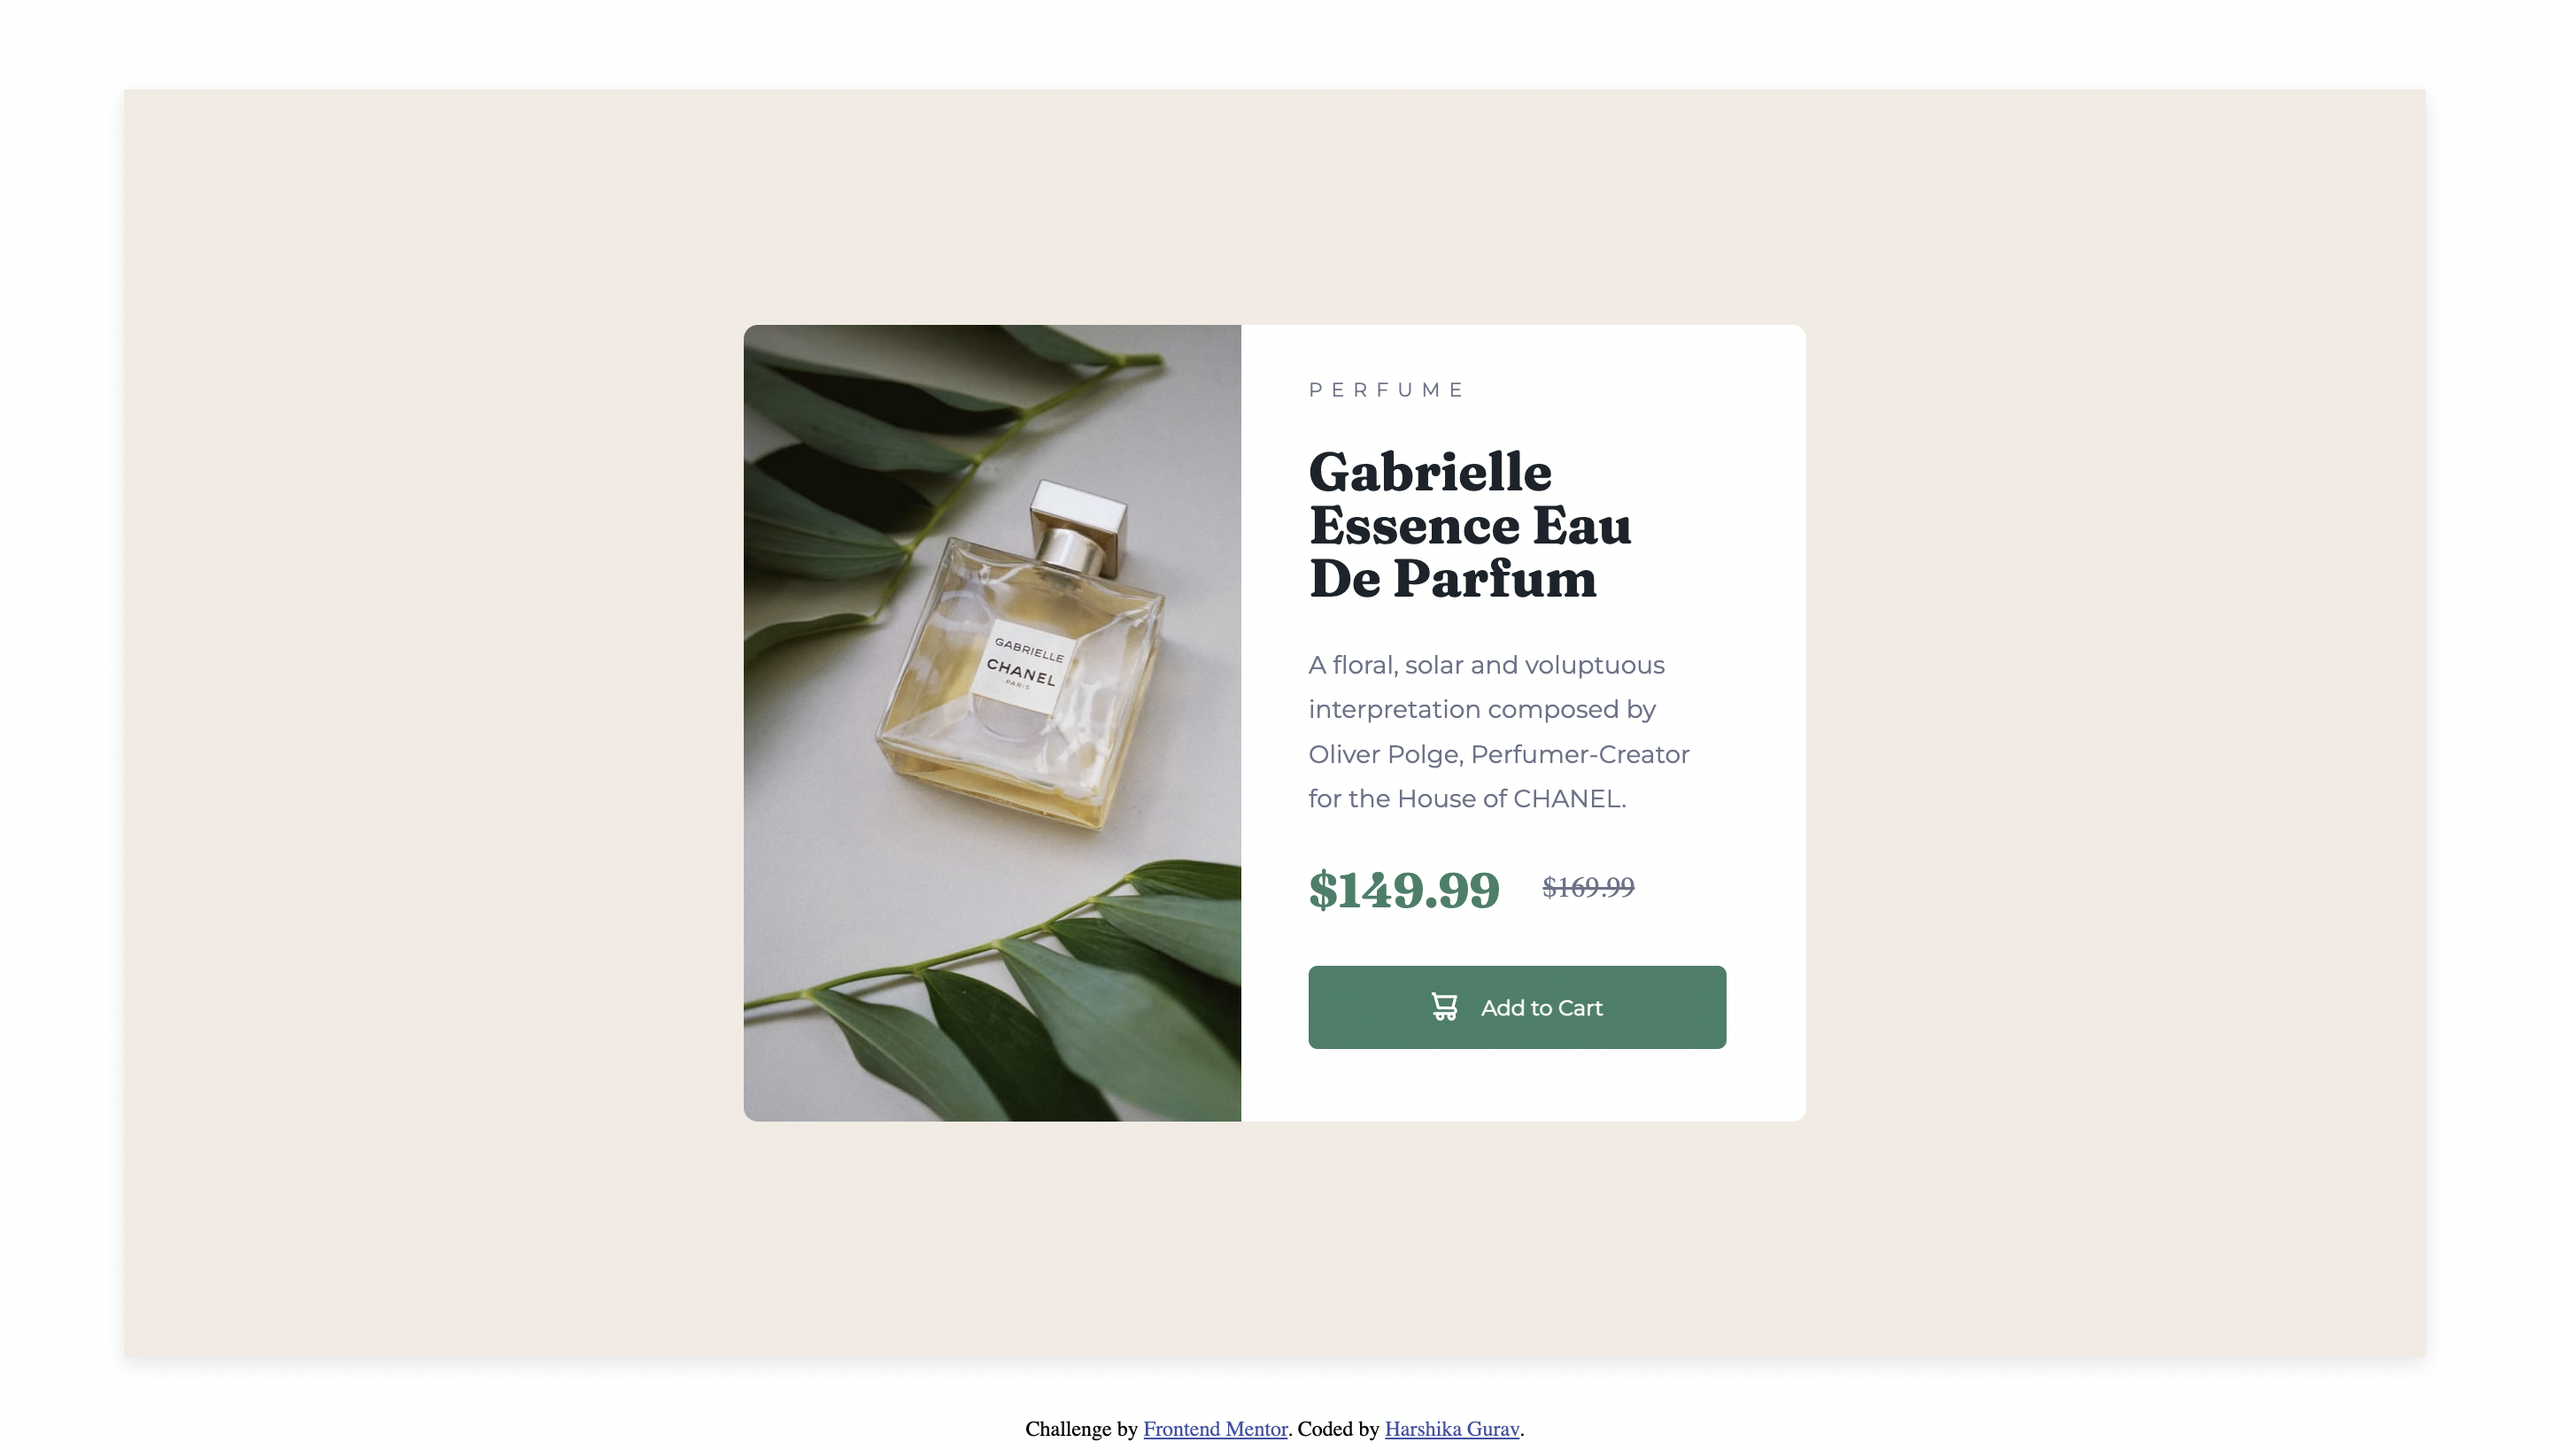
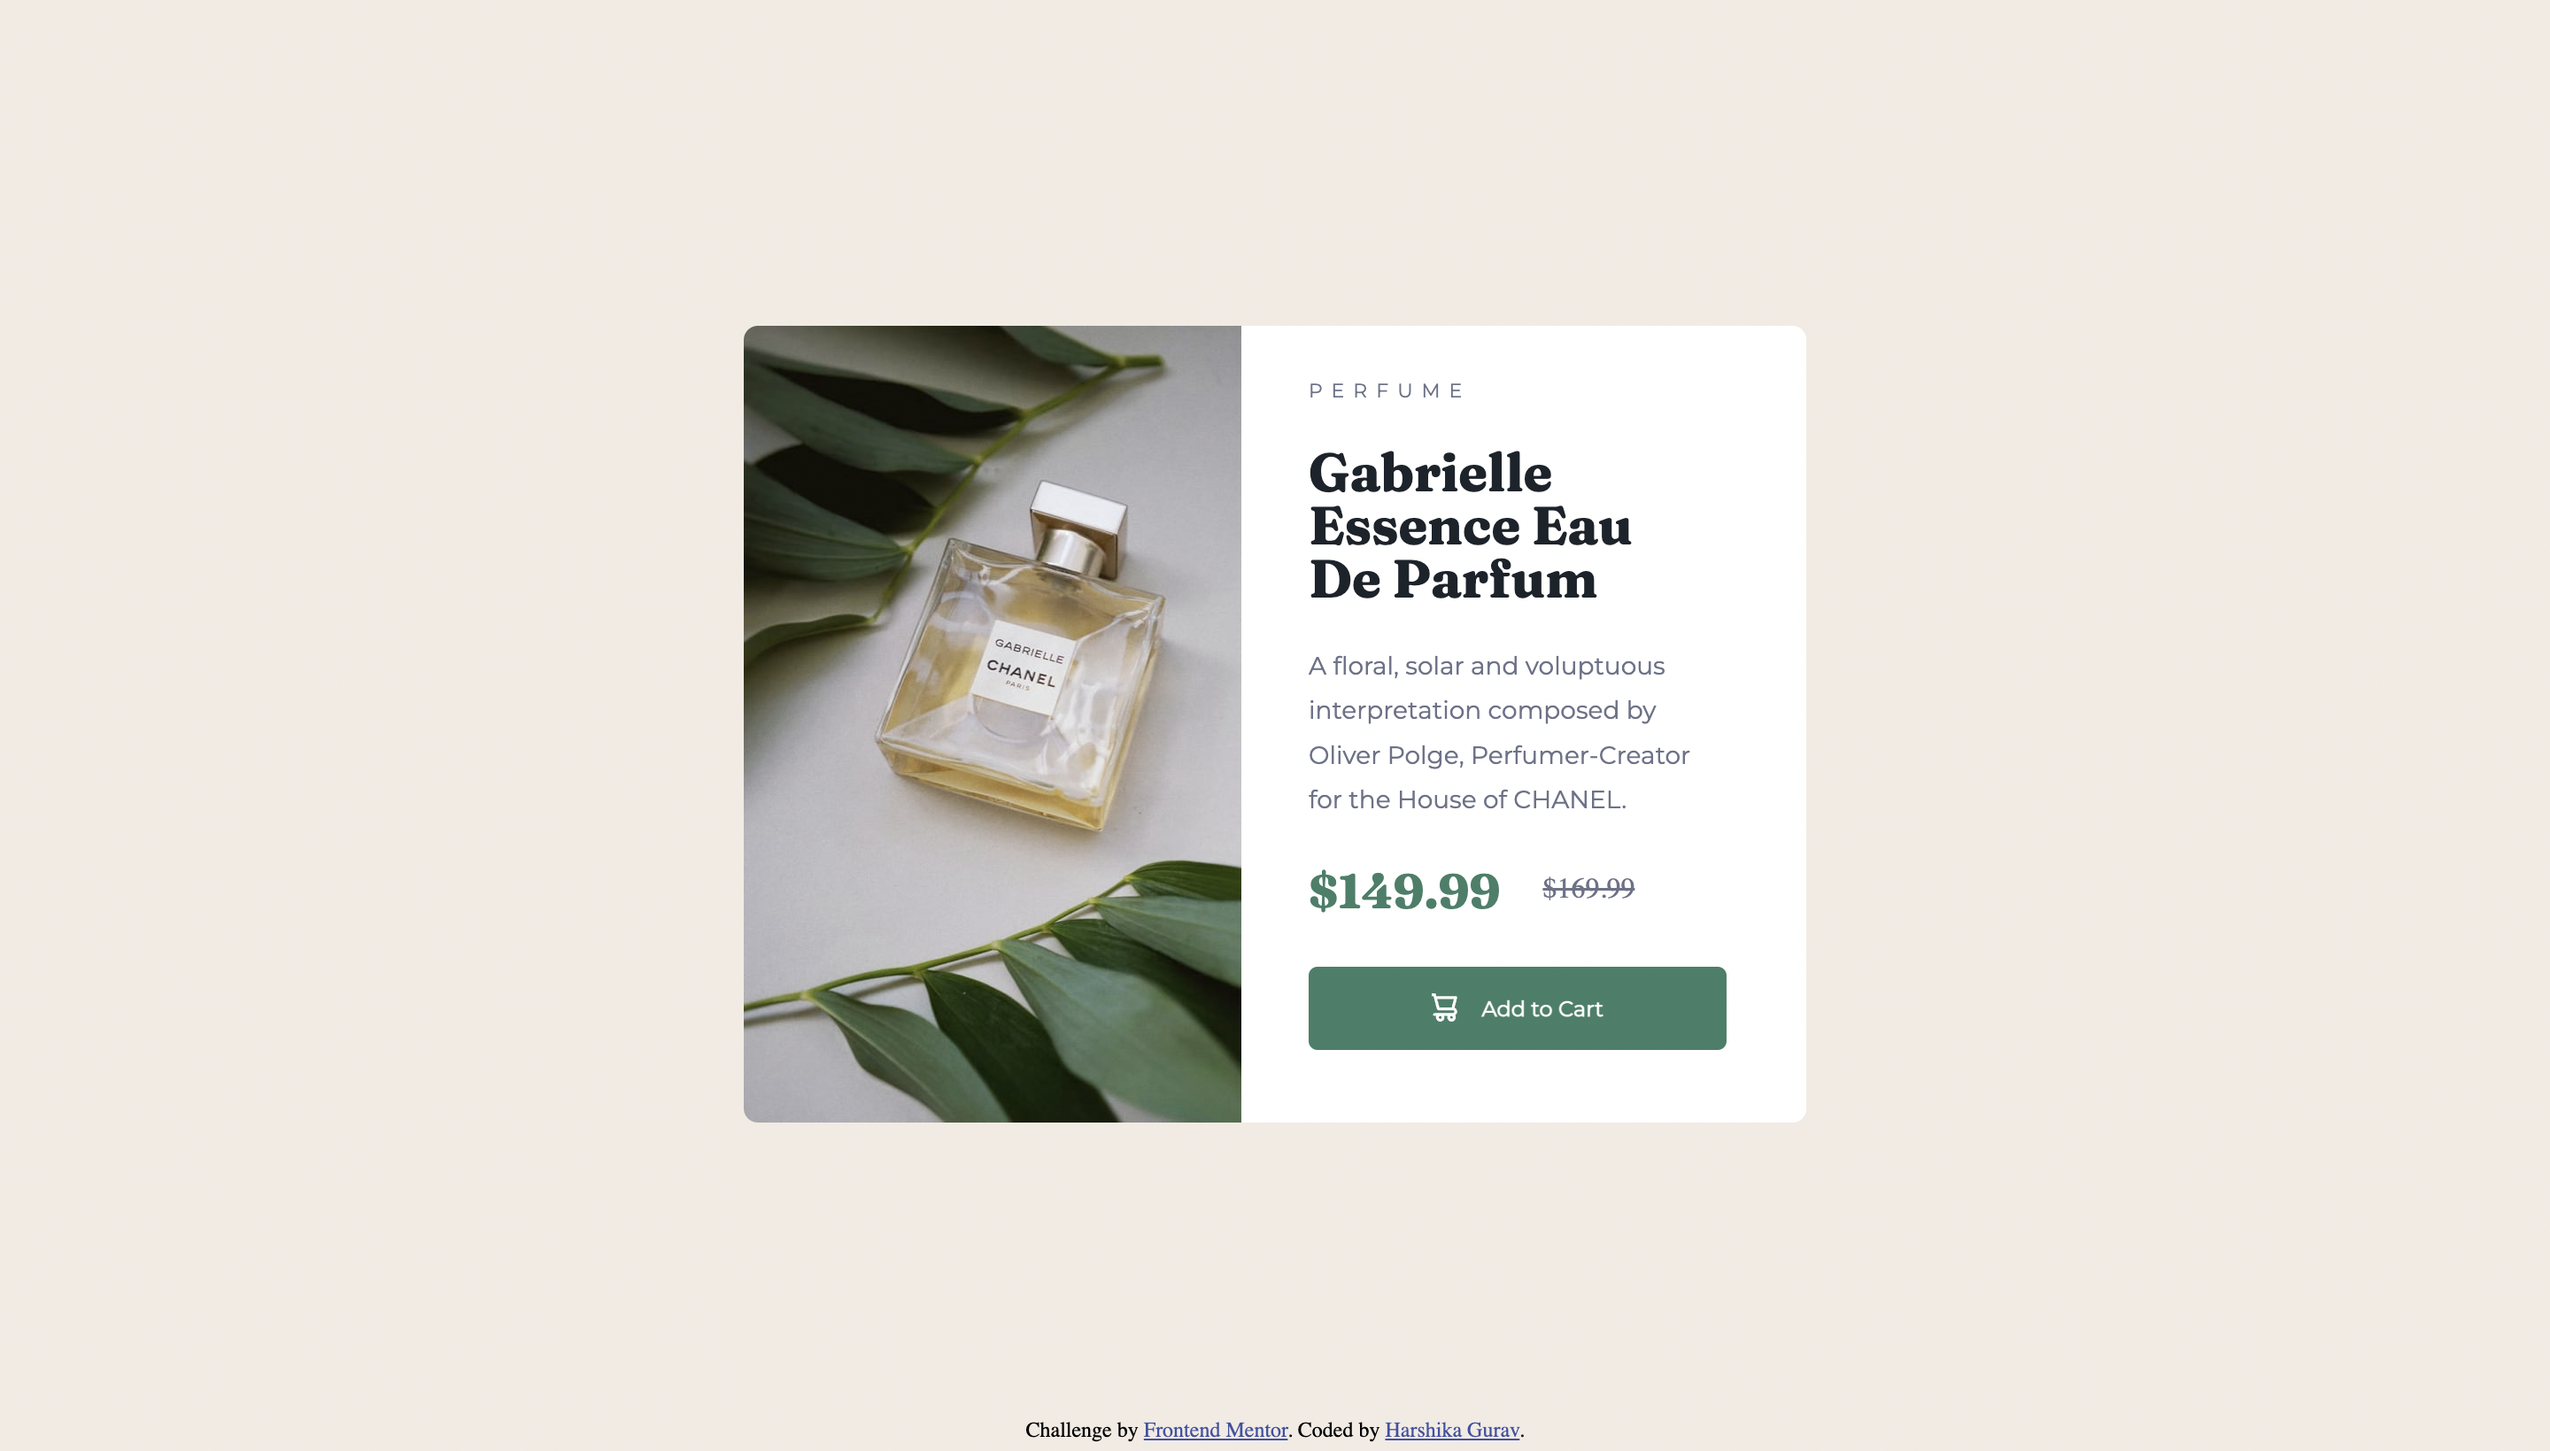
minor ui changes and readme update

Changed region(s): [[0.0, 0.0, 1.0, 1.0], [0.5312, 0.3425, 0.5625, 0.3736]]

diff --git a/product-card-preview-component/style.css b/product-card-preview-component/style.css
@@ -2,11 +2,12 @@
     margin: 0;
     padding: 0;
 }
+body{
+     background-color: hsl(30, 38%, 92%);
+}
 .container{
     width:1300px;
     height: 716px;
-    background-color: hsl(30, 38%, 92%);
-    box-shadow: rgba(0, 0, 0, 0.1) 0px 4px 12px;
 }
 .card{
     background-color: hsl(0, 0%, 100%);

diff --git a/product-card-preview-component/README.md b/product-card-preview-component/README.md
@@ -27,8 +27,8 @@ Users should be able to:
 
 ### Links
 
-- Solution URL: [Add solution URL here](https://your-solution-url.com)
-- Live Site URL: [Add live site URL here](https://your-live-site-url.com)
+- Solution URL: [Code](https://github.com/harshika07/frontendmentor/tree/main/product-card-preview-component)
+- Live Site URL: [Product-Preview](https://product-preview-caco.netlify.app)
 
 
 ### Built with
